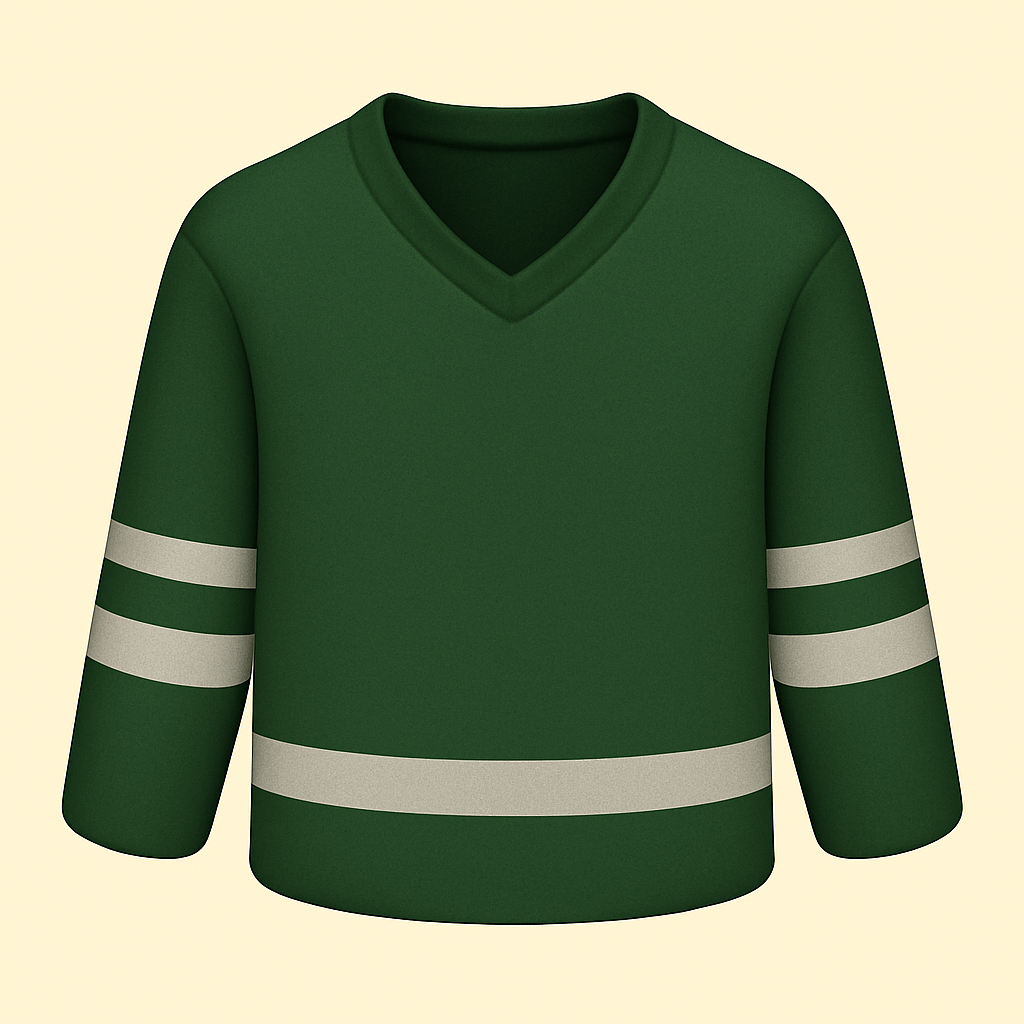
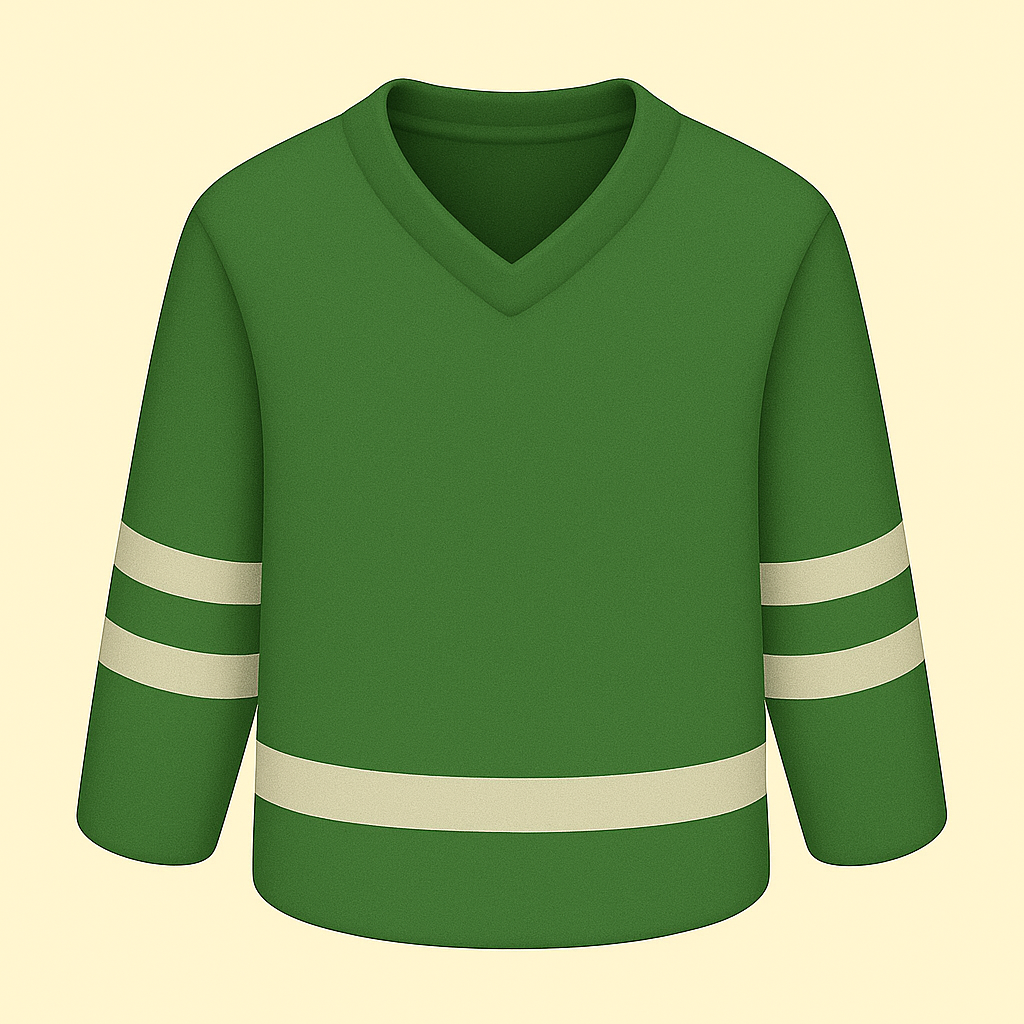
green jersey update and shortening URL to drop the need to inlude 'leagues' in the URL

diff --git a/leagues/templates/leagues/team_stat_list.html b/leagues/templates/leagues/team_stat_list.html
@@ -34,7 +34,7 @@
                             <tbody>
                                 {% for team in team_list %}
                                     {% if team.division|stringformat:"s" == "Sunday D1" %}
-                                        <tr class="clickable" onclick="javascript:handleTeam('/leagues/teams/{{team.team.id}}')">
+                                        <tr class="clickable" onclick="javascript:handleTeam('{% url "teams" team.team.id %}')">
                                             <td class="team-name">{{team.team.team_name}}</td>
                                             <td class="stat-column">{{team.win}}</td>
                                             <td class="stat-column">{{team.otw}}</td>
@@ -73,7 +73,7 @@
                             <tbody>
                                 {% for team in team_list %}
                                     {% if team.division|stringformat:"s" == "Sunday D2" %}
-                                        <tr class="clickable" onclick="javascript:handleTeam('/leagues/teams/{{team.team.id}}')">
+                                        <tr class="clickable" onclick="javascript:handleTeam('{% url "teams" team.team.id %}')">
                                             <td class="team-name">{{team.team.team_name}}</td>
                                             <td class="stat-column">{{team.win}}</td>
                                             <td class="stat-column">{{team.otw}}</td>
@@ -117,7 +117,7 @@
                             <tbody>
                                 {% for team in team_list %}
                                     {% if team.division|stringformat:"s" == "Wednesday Draft League" and team.team.conference == 1 %}
-                                        <tr class="clickable" onclick="javascript:handleTeam('/leagues/teams/{{team.team.id}}')">
+                                        <tr class="clickable" onclick="javascript:handleTeam('{% url "teams" team.team.id %}')">
                                             <td class="team-name">{{team.team.team_name}}</td>
                                             <td class="stat-column">{{team.win}}</td>
                                             <td class="stat-column">{{team.otw}}</td>
@@ -154,7 +154,7 @@
                             <tbody>
                                 {% for team in team_list %}
                                     {% if team.division|stringformat:"s" == "Wednesday Draft League" and team.team.conference == 2 %}
-                                        <tr class="clickable" onclick="javascript:handleTeam('/leagues/teams/{{team.team.id}}')">
+                                        <tr class="clickable" onclick="javascript:handleTeam(''{% url "teams" team.team.id %}')">
                                             <td class="team-name">{{team.team.team_name}}</td>
                                             <td class="stat-column">{{team.win}}</td>
                                             <td class="stat-column">{{team.otw}}</td>
@@ -198,7 +198,7 @@
                             <tbody>
                                 {% for team in team_list %}
                                     {% if team.division|stringformat:"s" == "Monday A League" %}
-                                        <tr class="clickable" onclick="javascript:handleTeam('/leagues/teams/{{team.team.id}}')">
+                                        <tr class="clickable" onclick="javascript:handleTeam('{% url "teams" team.team.id %}')">
                                             <td class="team-name">{{team.team.team_name}}</td>
                                             <td class="stat-column">{{team.win}}</td>
                                             <td class="stat-column">{{team.otw}}</td>
@@ -235,7 +235,7 @@
                             <tbody>
                                 {% for team in team_list %}
                                     {% if team.division|stringformat:"s" == "Monday B League" %}
-                                        <tr class="clickable" onclick="javascript:handleTeam('/leagues/teams/{{team.team.id}}')">
+                                        <tr class="clickable" onclick="javascript:handleTeam('{% url "teams" team.team.id %}')">
                                             <td class="team-name">{{team.team.team_name}}</td>
                                             <td class="stat-column">{{team.win}}</td>
                                             <td class="stat-column">{{team.otw}}</td>

diff --git a/leagues/templates/partials/cups.html b/leagues/templates/partials/cups.html
@@ -13,7 +13,7 @@
                 <table class="game-overview">
                     <tr>
                         <td
-                            onclick="javascript:handleTeam('/leagues/teams/{{value2.match.awayteam.id}}')"
+                            onclick="javascript:handleTeam('{% url "teams" value2.match.awayteam.id %}')"
                             class="clickable
                             {% if value2.match.home_goals < value2.match.away_goals %}
                                 winner
@@ -26,7 +26,7 @@
                             {% endif %}
                             >{{value2.match.away_goals}}</td>
                         <td 
-                            onclick="javascript:handleTeam('/leagues/teams/{{value2.match.hometeam.id}}')"
+                            onclick="javascript:handleTeam('{% url "teams" value2.match.hometeam.id %}')"
                             class="clickable
                             {% if value2.match.home_goals > value2.match.away_goals %}
                                 winner
@@ -53,7 +53,7 @@
                             {% for stat in value2.stats %}
                                 {% if value2.match.awayteam == stat.team %}
                                     <tr>
-                                        <td class="clickable" onclick="javascript:handleTeam('/leagues/player/{{stat.player_id}}')">{{stat.player}}</td>
+                                        <td class="clickable" onclick="javascript:handleTeam('{% url "player" stat.player_id %}')">{{stat.player}}</td>
                                         <td>{{stat.goals}}</td>
                                         <td>{{stat.assists}}</td>
                                     </tr>
@@ -86,7 +86,7 @@
                             {% for stat in value2.stats %}
                                 {% if value2.match.hometeam == stat.team %}
                                     <tr>
-                                        <td class="clickable" onclick="javascript:handleTeam('/leagues/player/{{stat.player_id}}')">{{stat.player}}</td>
+                                        <td class="clickable" onclick="javascript:handleTeam('{% url "player" stat.player_id %}')">{{stat.player}}</td>
                                         <td>{{stat.goals}}</td>
                                         <td>{{stat.assists}}</td>
                                     </tr>
@@ -101,7 +101,7 @@
                             </tr>
                             {% for stat in value2.home_goalie_stats %}
                                 <tr>
-                                    <td class="clickable" onclick="javascript:handleTeam('/leagues/player/{{stat.player_id}}')">{{stat.player}}</td>
+                                    <td class="clickable" onclick="javascript:handleTeam('{% url "player" stat.player_id %}')">{{stat.player}}</td>
                                     <td>{{stat.goals_against}}</td>
                                     <td>{{stat.empty_net}}</td>
                                 </tr>

diff --git a/leagues/templates/partials/scores.html b/leagues/templates/partials/scores.html
@@ -13,7 +13,7 @@
                 <table class="game-overview">
                     <tr>
                         <td
-                            onclick="javascript:handleTeam('/leagues/teams/{{value2.match.awayteam.id}}')"
+                            onclick="javascript:handleTeam('{% url "teams" value2.match.awayteam.id %}')"
                             class="clickable
                             {% if value2.match.home_goals < value2.match.away_goals %}
                                 winner
@@ -26,7 +26,7 @@
                             {% endif %}
                             >{{value2.match.away_goals}}</td>
                         <td 
-                            onclick="javascript:handleTeam('/leagues/teams/{{value2.match.hometeam.id}}')"
+                            onclick="javascript:handleTeam('{% url "teams" value2.match.hometeam.id %}')"
                             class="clickable
                             {% if value2.match.home_goals > value2.match.away_goals %}
                                 winner
@@ -53,7 +53,7 @@
                             {% for stat in value2.stats %}
                                 {% if value2.match.awayteam == stat.team %}
                                     <tr>
-                                        <td class="clickable" onclick="javascript:handleTeam('/leagues/player/{{stat.player_id}}')">{{stat.player}}</td>
+                                        <td class="clickable" onclick="javascript:handleTeam('{% url "player" stat.player_id %}')">{{stat.player}}</td>
                                         <td>{{stat.goals}}</td>
                                         <td>{{stat.assists}}</td>
                                     </tr>
@@ -68,7 +68,7 @@
                             </tr>
                             {% for stat in value2.away_goalie_stats %}
                                 <tr>
-                                    <td class="clickable" onclick="javascript:handleTeam('/leagues/player/{{stat.player_id}}')">{{stat.player}}</td>
+                                    <td class="clickable" onclick="javascript:handleTeam('{% url "player" stat.player_id %}')">{{stat.player}}</td>
                                     <td>{{stat.goals_against}}</td>
                                     <td>{{stat.empty_net}}</td>
                                 </tr>
@@ -86,7 +86,7 @@
                             {% for stat in value2.stats %}
                                 {% if value2.match.hometeam == stat.team %}
                                     <tr>
-                                        <td class="clickable" onclick="javascript:handleTeam('/leagues/player/{{stat.player_id}}')">{{stat.player}}</td>
+                                        <td class="clickable" onclick="javascript:handleTeam('{% url "player" stat.player_id %}')">{{stat.player}}</td>
                                         <td>{{stat.goals}}</td>
                                         <td>{{stat.assists}}</td>
                                     </tr>

diff --git a/leagues/templates/leagues/player.html b/leagues/templates/leagues/player.html
@@ -24,7 +24,7 @@
                 <div class="4u 12u(mobile)">
                     {% if offensive_stats %}
                     <h3>Player Trends Snapshot</h3>
-                    <canvas id="playerTrendsSnapshot" style="cursor: pointer;" onclick="window.location.href='{% url 'leagues:player_trends' %}?player_id={{ player.id }}'"></canvas>
+                    <canvas id="playerTrendsSnapshot" style="cursor: pointer;" onclick="window.location.href='{% url 'player_trends' %}?player_id={{ player.id }}'"></canvas>
                     {% endif %}
                 </div>
             </div>
@@ -46,7 +46,7 @@
                             <tr>
                                 <td>{{ stat.team__season__year }}</td>
                                 <td>{{ stat.team__season__season_type|season_type }}</td>
-                                <td class="clickable" onclick="javascript:handleTeam('/leagues/teams/{{ stat.team__id }}')">
+                                <td class="clickable" onclick="javascript:handleTeam('{% url "teams" stat.team__id %}')">
                                     {% if stat.team__season__year < 2022 %}
                                         {{ stat.team__team_name }} ({{ stat.team_wins|default:0 }} - {{ stat.team_losses|default:0 }} - {{ stat.team_ties|default:0 }})
                                     {% else %}
@@ -87,7 +87,7 @@
                                 <tr>
                                     <td>{{ stat.team__season__year }}</td>
                                     <td>{{ stat.team__season__season_type|season_type }}</td>
-                                    <td class="clickable" onclick="javascript:handleTeam('/leagues/teams/{{ stat.team__id }}')">
+                                    <td class="clickable" onclick="javascript:handleTeam('{% url "teams" stat.team__id %}')"
                                         {% if stat.team__season__year < 2022 %}
                                             {{ stat.team__team_name }} ({{ stat.team_wins|default:0 }} - {{ stat.team_losses|default:0 }} - {{ stat.team_ties|default:0 }})
                                         {% else %}

diff --git a/leagues/templates/partials/stats.html b/leagues/templates/partials/stats.html
@@ -9,10 +9,10 @@
     {% for player in player_list %}
         {% if player.total_points > 0 or player.roster__position1 != 4 and player.roster__position2 != 4 %}
             <tr>
-                <td class="player-name clickable" onclick="handleTeam('/leagues/player/{{ player.id }}')">
+                <td class="player-name clickable" onclick="handleTeam('{% url "player" player.id %}')">
                     {{ player.first_name }} {{ player.last_name }}{% if player.roster__is_captain %} (C){% endif %}
                 </td>
-                <td class="team-name clickable" onclick="handleTeam('/leagues/teams/{{ player.roster__team__id }}')">{{ player.roster__team__team_name }}</td>
+                <td class="team-name clickable" onclick="handleTeam('{% url "teams" player.roster__team__id %}')">{{ player.roster__team__team_name }}</td>
                 <td class="stat-column">{{ player.sum_goals }}</td>
                 <td class="stat-column">{{ player.sum_assists }}</td>
                 <td class="stat-column">{{ player.total_points }}</td>
@@ -35,10 +35,10 @@
     {% for player in player_list %}
         {% if player.roster__position1 == 4 or player.roster__position2 == 4 %}
             <tr>
-                <td class="player-name clickable" onclick="handleTeam('/leagues/player/{{ player.id }}')">
+                <td class="player-name clickable" onclick="handleTeam('{% url "player" player.id %}')">
                     {{ player.first_name }} {{ player.last_name }}{% if player.roster__is_captain %} (C){% endif %}
                 </td>
-                <td class="team-name clickable" onclick="handleTeam('/leagues/teams/{{ player.roster__team__id }}')">{{ player.roster__team__team_name }}</td>
+                <td class="team-name clickable" onclick="handleTeam(''{% url "teams" player.roster__team__id %}')">{{ player.roster__team__team_name }}</td>
                 <td class="stat-column">{{ player.rounded_average_goals_against }}</td>
                 <td class="stat-column">{{ player.sum_games_played }}</td>
                 <td class="stat-column">{{ player.sum_goals_against }}</td>

diff --git a/core/templates/core/homepage_detail_info.html b/core/templates/core/homepage_detail_info.html
@@ -45,7 +45,7 @@
                                             <tr>{{ match.time|date:"g:i A" }}</tr>
                                             <tr>
                                                 <!-- Away Team -->
-                                                <td class="clickable" onclick="javascript:handleTeam('/leagues/teams/{{ match.awayteam.id }}')">
+                                                <td class="clickable" onclick="javascript:handleTeam('{% url "teams" match.awayteam.id %}')">
                                                     {{ match.awayteam.team_name }}
                                                 </td>
                                                 <!-- VS with team colors -->
@@ -61,7 +61,7 @@
                                                          class="team-color-emoji">
                                                 </td>
                                                 <!-- Home Team -->
-                                                <td class="clickable" onclick="javascript:handleTeam('/leagues/teams/{{ match.hometeam.id }}')">
+                                                <td class="clickable" onclick="javascript:handleTeam('{% url "teams" match.hometeam.id %}')">
                                                     {{ match.hometeam.team_name }}
                                                 </td>
                                             </tr>

diff --git a/leagues/templates/leagues/player_trends.html b/leagues/templates/leagues/player_trends.html
@@ -8,7 +8,9 @@
             {% if not player_id %}
                 <h2>Search for a player to see their trend history</h2>
             {% else %}
-                <h2 class="clickable title" onclick="javascript:handleTeam('/leagues/player/{{ player.id }}')">{{ player.first_name }} {{ player.last_name }}</h2>
+                <h2 class="clickable title" onclick="javascript:handleTeam('{% url "player" player.id %}')">
+                    {{ player.first_name }} {{ player.last_name }}
+                </h2>
                 <h3>
                     Average Goals/Season: {{ average_goals|floatformat:2 }} &nbsp;
                     Average Assists/Season: {{ average_assists|floatformat:2 }} &nbsp;
@@ -16,7 +18,7 @@
                     Displaying for: {{ timespan }} seasons, Division: {% if division == 'all' %}All Divisions{% else %}{{ division|get_division_name }}{% endif %}
                 </h3>
             {% endif %}
-            <form id="playerSearchForm" method="GET" action="{% url 'leagues:player_trends' %}">
+            <form id="playerSearchForm" method="GET" action="{% url 'player_trends' %}">
                 <select id="playerSearchInput" name="player_id" class="custom-dropdown" placeholder="Enter player name" required>
                     <option value="">Enter player name</option>
                     {% for player in all_players %}

diff --git a/leagues/templates/partials/schedule.html b/leagues/templates/partials/schedule.html
@@ -17,7 +17,7 @@
                     {% endif %}
                     <table class="game-overview">
                         <tr>
-                            <td class="clickable" onclick="javascript:handleTeam('/leagues/teams/{{match.awayteam.id}}')">
+                            <td class="clickable" onclick="javascript:handleTeam('{% url "teams" match.awayteam.id %}')">
                                 <img src="{% jersey_path %}{{ match.awayteam.team_color|lower }}_jersey.png" 
                                      alt="{{ match.awayteam.team_color }} jersey" 
                                      title="{{ match.awayteam.team_color }}" 
@@ -29,7 +29,7 @@
                                 {% endif %}
                             </td>
                             <td>@</td>
-                            <td class="clickable" onclick="javascript:handleTeam('/leagues/teams/{{match.hometeam.id}}')">
+                            <td class="clickable" onclick="javascript:handleTeam('{% url "teams" match.hometeam.id %}')">
                                 <img src="{% jersey_path %}{{ match.hometeam.team_color|lower }}_jersey.png" 
                                      alt="{{ match.hometeam.team_color }} jersey" 
                                      title="{{ match.hometeam.team_color }}" 

diff --git a/core/templates/core/header.html b/core/templates/core/header.html
@@ -17,13 +17,13 @@
 				</h1>				
 
                 <nav id="nav">
-                    <a href="{% url 'leagues:schedule' %}">Schedule</a>
-                    <a href="{% url 'leagues:team_standings' %}">Standings</a>
-                    <a href="{% url 'leagues:player_stats' %}">Leaders</a>
-                    <a href="{% url 'leagues:player_trends' %}">Trends</a>
-                    <a href="{% url 'leagues:hof' %}">HOF</a>
-                    <a href="{% url 'leagues:scores' %}">Scores</a>
-                    <a href="{% url 'leagues:cups' %}">Championships</a>
+                    <a href="{% url 'schedule' %}">Schedule</a>
+                    <a href="{% url 'team_standings' %}">Standings</a>
+                    <a href="{% url 'player_stats' %}">Leaders</a>
+                    <a href="{% url 'player_trends' %}">Trends</a>
+                    <a href="{% url 'hof' %}">HOF</a>
+                    <a href="{% url 'scores' %}">Scores</a>
+                    <a href="{% url 'cups' %}">Championships</a>
                     <a href="https://forms.gle/w68fCbHrVq8iXBBA9" target="_blank">Sign Up!</a>
                 </nav>
             </div>

diff --git a/leagues/templates/partials/goalie_stats.html b/leagues/templates/partials/goalie_stats.html
@@ -9,10 +9,10 @@
     {% for player in player_list %}
         {% if player.roster__position1 == 4 or player.roster__position2 == 4 %}
             <tr>
-                <td class="clickable" onclick="handleTeam('/leagues/player/{{ player.id }}')">
+                <td class="clickable" onclick="handleTeam('{% url "player" player.id %}')">
                     {{ player.first_name }} {{ player.last_name }}{% if player.roster__is_captain %} (C){% endif %}
                 </td>
-                <td class="clickable" onclick="handleTeam('/leagues/teams/{{ player.roster__team__id }}')">{{ player.roster__team__team_name }}</td>
+                <td class="clickable" onclick="handleTeam('{% url "teams" player.roster__team__id %}')">{{ player.roster__team__team_name }}</td>
                 <td>{{ player.rounded_average_goals_against }}</td>
                 <td>{{ player.sum_games_played }}</td>
                 <td>{{ player.sum_goals_against }}</td>

diff --git a/leagues/templates/partials/offensive_stats.html b/leagues/templates/partials/offensive_stats.html
@@ -8,10 +8,10 @@
     </tr>
     {% for player in player_list %}
         <tr>
-            <td class="clickable" onclick="handleTeam('/leagues/player/{{ player.id }}')">
+            <td class="clickable" onclick="handleTeam('{% url "player" player.id %}')">
                 {{ player.first_name }} {{ player.last_name }}{% if player.roster__is_captain %} (C){% endif %}
             </td>
-            <td class="clickable" onclick="handleTeam('/leagues/teams/{{ player.roster__team__id }}')">{{ player.roster__team__team_name }}</td>
+            <td class="clickable" onclick="handleTeam('{% url "teams"  player.roster__team__id %}')">{{ player.roster__team__team_name }}</td>
             <td>{{ player.sum_goals }}</td>
             <td>{{ player.sum_assists }}</td>
             <td>{{ player.total_points }}</td>

diff --git a/leagues/templates/partials/hof_player_rankings.html b/leagues/templates/partials/hof_player_rankings.html
@@ -12,7 +12,7 @@
         {% for player in player_ranks %}
         <tr>
             <td>{{ player.rank }}</td>
-            <td class="clickable" onclick="javascript:handleTeam('/leagues/player/{{ player.id }}')">{{ player.first_name }} {{ player.last_name }}</td>
+            <td class="clickable" onclick="javascript:handleTeam('{% url "player" player.id %}')">{{ player.first_name }} {{ player.last_name }}</td>
             <td>{{ player.total_points }}</td>
             <td>{{ player.total_goals }}</td>
             <td>{{ player.total_assists }}</td>
